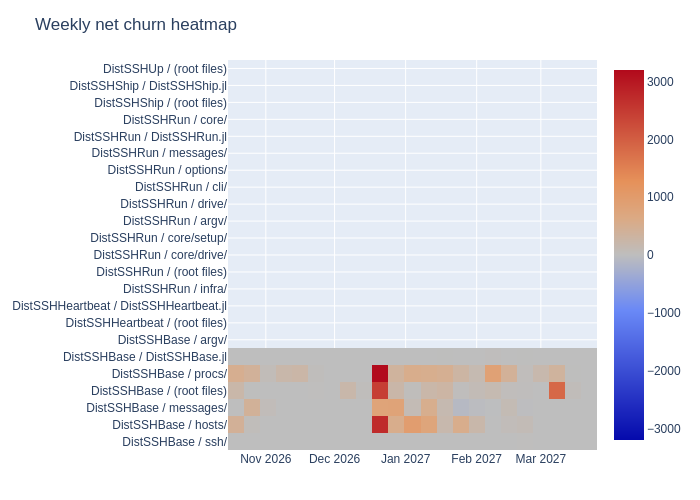
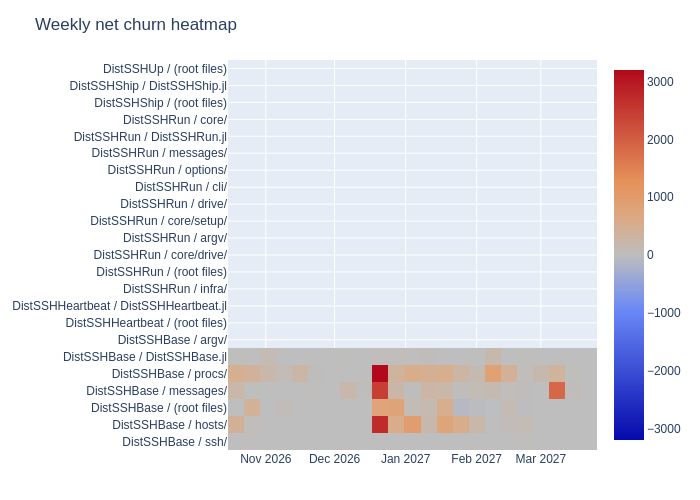
Render source churn.

Changed region(s): [[0.12, 0.75, 0.33, 0.84], [0.12, 0.42, 0.33, 0.51], [0.6, 0.78, 0.66, 0.87]]

diff --git a/churn/charts/churn-summary.html b/churn/charts/churn-summary.html
@@ -9,7 +9,7 @@
   <body style="margin:0;font-family:system-ui,sans-serif;">
   <div id="churn-summary" style="width:100%;min-height:90vh;"></div>
   <script>
-  const data = [{"type":"bar","name":"+30d","orientation":"h","y":["DistSSHBase / ssh/","DistSSHBase / hosts/","DistSSHBase / messages/","DistSSHBase / (root files)","DistSSHBase / procs/","DistSSHBase / DistSSHBase.jl","DistSSHBase / argv/","DistSSHHeartbeat / (root files)","DistSSHHeartbeat / DistSSHHeartbeat.jl","DistSSHRun / infra/","DistSSHRun / (root files)","DistSSHRun / core/drive/","DistSSHRun / core/setup/","DistSSHRun / argv/","DistSSHRun / drive/","DistSSHRun / cli/","DistSSHRun / options/","DistSSHRun / messages/","DistSSHRun / DistSSHRun.jl","DistSSHRun / core/","DistSSHShip / (root files)","DistSSHShip / DistSSHShip.jl","DistSSHUp / (root files)"],"marker":{"color":"#3b82f6"},"hovertemplate":"%{y}\u003cbr>+30d: %{x} lines\u003cextra>\u003c/extra>","x":[1519,1093,193,240,250,87,1,232,30,11665,3842,2961,2595,2098,1818,1115,1134,767,368,213,2568,88,59]},{"type":"bar","name":"−30d","orientation":"h","customdata":[344,216,67,11,0,34,1,15,2,2470,1853,1310,525,977,1027,696,114,151,217,27,340,26,61],"y":["DistSSHBase / ssh/","DistSSHBase / hosts/","DistSSHBase / messages/","DistSSHBase / (root files)","DistSSHBase / procs/","DistSSHBase / DistSSHBase.jl","DistSSHBase / argv/","DistSSHHeartbeat / (root files)","DistSSHHeartbeat / DistSSHHeartbeat.jl","DistSSHRun / infra/","DistSSHRun / (root files)","DistSSHRun / core/drive/","DistSSHRun / core/setup/","DistSSHRun / argv/","DistSSHRun / drive/","DistSSHRun / cli/","DistSSHRun / options/","DistSSHRun / messages/","DistSSHRun / DistSSHRun.jl","DistSSHRun / core/","DistSSHShip / (root files)","DistSSHShip / DistSSHShip.jl","DistSSHUp / (root files)"],"marker":{"color":"#ef4444"},"hovertemplate":"%{y}\u003cbr>−30d: %{customdata} lines\u003cextra>\u003c/extra>","x":[-344,-216,-67,-11,0,-34,-1,-15,-2,-2470,-1853,-1310,-525,-977,-1027,-696,-114,-151,-217,-27,-340,-26,-61]},{"type":"scatter","name":"net","y":["DistSSHBase / ssh/","DistSSHBase / hosts/","DistSSHBase / messages/","DistSSHBase / (root files)","DistSSHBase / procs/","DistSSHBase / DistSSHBase.jl","DistSSHBase / argv/","DistSSHHeartbeat / (root files)","DistSSHHeartbeat / DistSSHHeartbeat.jl","DistSSHRun / infra/","DistSSHRun / (root files)","DistSSHRun / core/drive/","DistSSHRun / core/setup/","DistSSHRun / argv/","DistSSHRun / drive/","DistSSHRun / cli/","DistSSHRun / options/","DistSSHRun / messages/","DistSSHRun / DistSSHRun.jl","DistSSHRun / core/","DistSSHShip / (root files)","DistSSHShip / DistSSHShip.jl","DistSSHUp / (root files)"],"marker":{"line":{"width":1,"color":"#ffffff"},"size":8,"symbol":"diamond","color":"#111827"},"mode":"markers","hovertemplate":"%{y}\u003cbr>net: %{x} lines\u003cextra>\u003c/extra>","x":[1175,877,126,229,250,53,0,217,28,9195,1989,1651,2070,1121,791,419,1020,616,151,186,2228,62,-2]}];
+  const data = [{"type":"bar","name":"+30d","orientation":"h","y":["DistSSHBase / ssh/","DistSSHBase / hosts/","DistSSHBase / (root files)","DistSSHBase / messages/","DistSSHBase / procs/","DistSSHBase / DistSSHBase.jl","DistSSHBase / argv/","DistSSHHeartbeat / (root files)","DistSSHHeartbeat / DistSSHHeartbeat.jl","DistSSHRun / infra/","DistSSHRun / (root files)","DistSSHRun / core/drive/","DistSSHRun / argv/","DistSSHRun / core/setup/","DistSSHRun / drive/","DistSSHRun / cli/","DistSSHRun / options/","DistSSHRun / messages/","DistSSHRun / DistSSHRun.jl","DistSSHRun / core/","DistSSHShip / (root files)","DistSSHShip / DistSSHShip.jl","DistSSHUp / (root files)"],"marker":{"color":"#3b82f6"},"hovertemplate":"%{y}\u003cbr>+30d: %{x} lines\u003cextra>\u003c/extra>","x":[1587,1095,349,193,250,88,1,247,30,11750,3996,2992,2132,2599,1833,1118,1314,775,383,214,2568,88,59]},{"type":"bar","name":"−30d","orientation":"h","customdata":[402,218,14,67,0,34,1,24,2,2518,1967,1329,1002,529,1043,699,132,156,231,28,340,26,61],"y":["DistSSHBase / ssh/","DistSSHBase / hosts/","DistSSHBase / (root files)","DistSSHBase / messages/","DistSSHBase / procs/","DistSSHBase / DistSSHBase.jl","DistSSHBase / argv/","DistSSHHeartbeat / (root files)","DistSSHHeartbeat / DistSSHHeartbeat.jl","DistSSHRun / infra/","DistSSHRun / (root files)","DistSSHRun / core/drive/","DistSSHRun / argv/","DistSSHRun / core/setup/","DistSSHRun / drive/","DistSSHRun / cli/","DistSSHRun / options/","DistSSHRun / messages/","DistSSHRun / DistSSHRun.jl","DistSSHRun / core/","DistSSHShip / (root files)","DistSSHShip / DistSSHShip.jl","DistSSHUp / (root files)"],"marker":{"color":"#ef4444"},"hovertemplate":"%{y}\u003cbr>−30d: %{customdata} lines\u003cextra>\u003c/extra>","x":[-402,-218,-14,-67,0,-34,-1,-24,-2,-2518,-1967,-1329,-1002,-529,-1043,-699,-132,-156,-231,-28,-340,-26,-61]},{"type":"scatter","name":"net","y":["DistSSHBase / ssh/","DistSSHBase / hosts/","DistSSHBase / (root files)","DistSSHBase / messages/","DistSSHBase / procs/","DistSSHBase / DistSSHBase.jl","DistSSHBase / argv/","DistSSHHeartbeat / (root files)","DistSSHHeartbeat / DistSSHHeartbeat.jl","DistSSHRun / infra/","DistSSHRun / (root files)","DistSSHRun / core/drive/","DistSSHRun / argv/","DistSSHRun / core/setup/","DistSSHRun / drive/","DistSSHRun / cli/","DistSSHRun / options/","DistSSHRun / messages/","DistSSHRun / DistSSHRun.jl","DistSSHRun / core/","DistSSHShip / (root files)","DistSSHShip / DistSSHShip.jl","DistSSHUp / (root files)"],"marker":{"line":{"width":1,"color":"#ffffff"},"size":8,"symbol":"diamond","color":"#111827"},"mode":"markers","hovertemplate":"%{y}\u003cbr>net: %{x} lines\u003cextra>\u003c/extra>","x":[1185,877,335,126,250,54,0,223,28,9232,2029,1663,1130,2070,790,419,1182,619,152,186,2228,62,-2]}];
   const layout = {"barmode":"overlay","height":414,"margin":{"l":220},"title":{"text":"30-day churn by area"},"xaxis":{"title":"lines"},"yaxis":{"autorange":"reversed"}};
 const config = {responsive: true, displayModeBar: true};
 Plotly.newPlot("churn-summary", data, layout, config);

diff --git a/churn/charts/churn-heatmap.html b/churn/charts/churn-heatmap.html
@@ -9,7 +9,7 @@
   <body style="margin:0;font-family:system-ui,sans-serif;">
   <div id="churn-heatmap" style="width:100%;min-height:90vh;"></div>
   <script>
-  const data = [{"type":"heatmap","colorscale":"RdBu","y":["DistSSHBase / ssh/","DistSSHBase / hosts/","DistSSHBase / messages/","DistSSHBase / (root files)","DistSSHBase / procs/","DistSSHBase / DistSSHBase.jl","DistSSHBase / argv/","DistSSHHeartbeat / (root files)","DistSSHHeartbeat / DistSSHHeartbeat.jl","DistSSHRun / infra/","DistSSHRun / (root files)","DistSSHRun / core/drive/","DistSSHRun / core/setup/","DistSSHRun / argv/","DistSSHRun / drive/","DistSSHRun / cli/","DistSSHRun / options/","DistSSHRun / messages/","DistSSHRun / DistSSHRun.jl","DistSSHRun / core/","DistSSHShip / (root files)","DistSSHShip / DistSSHShip.jl","DistSSHUp / (root files)"],"zmid":0,"z":[[0.0,434.0,-2.0,235.0,508.0,0.0],[0.0,41.0,416.0,8.0,412.0,0.0],[0.0,0.0,60.0,1.0,65.0,0.0],[0.0,0.0,0.0,5.0,224.0,0.0],[0.0,0.0,0.0,0.0,250.0,0.0],[0.0,0.0,5.0,15.0,29.0,4.0],[0.0,0.0,0.0,0.0,0.0,0.0],[0.0,0.0,0.0,217.0,0.0,0.0],[0.0,0.0,0.0,28.0,0.0,0.0],[0.0,2737.0,803.0,2457.0,3202.0,-4.0],[0.0,549.0,828.0,243.0,368.0,1.0],[0.0,966.0,100.0,31.0,550.0,4.0],[0.0,781.0,525.0,234.0,528.0,2.0],[0.0,183.0,154.0,292.0,484.0,8.0],[0.0,557.0,-92.0,27.0,296.0,3.0],[0.0,222.0,-31.0,89.0,139.0,0.0],[0.0,0.0,-9.0,140.0,869.0,20.0],[0.0,54.0,107.0,34.0,421.0,0.0],[14.0,86.0,-13.0,20.0,36.0,8.0],[0.0,0.0,0.0,0.0,185.0,1.0],[0.0,0.0,0.0,1862.0,366.0,0.0],[0.0,0.0,0.0,53.0,9.0,0.0],[0.0,2.0,-4.0,0.0,0.0,0.0]],"hovertemplate":"%{y}\u003cbr>week %{x}\u003cbr>net: %{z}\u003cextra>\u003c/extra>","x":["2026-10-19","2026-10-26","2026-11-02","2026-11-09","2026-11-16","2026-11-23"]}];
+  const data = [{"type":"heatmap","colorscale":"RdBu","y":["DistSSHBase / ssh/","DistSSHBase / hosts/","DistSSHBase / (root files)","DistSSHBase / messages/","DistSSHBase / procs/","DistSSHBase / DistSSHBase.jl","DistSSHBase / argv/","DistSSHHeartbeat / (root files)","DistSSHHeartbeat / DistSSHHeartbeat.jl","DistSSHRun / infra/","DistSSHRun / (root files)","DistSSHRun / core/drive/","DistSSHRun / argv/","DistSSHRun / core/setup/","DistSSHRun / drive/","DistSSHRun / cli/","DistSSHRun / options/","DistSSHRun / messages/","DistSSHRun / DistSSHRun.jl","DistSSHRun / core/","DistSSHShip / (root files)","DistSSHShip / DistSSHShip.jl","DistSSHUp / (root files)"],"zmid":0,"z":[[0.0,434.0,-2.0,235.0,508.0,10.0],[0.0,41.0,416.0,8.0,412.0,0.0],[0.0,0.0,0.0,5.0,224.0,106.0],[0.0,0.0,60.0,1.0,65.0,0.0],[0.0,0.0,0.0,0.0,250.0,0.0],[0.0,0.0,5.0,15.0,29.0,5.0],[0.0,0.0,0.0,0.0,0.0,0.0],[0.0,0.0,0.0,217.0,0.0,6.0],[0.0,0.0,0.0,28.0,0.0,0.0],[0.0,2737.0,803.0,2457.0,3202.0,33.0],[0.0,549.0,828.0,243.0,368.0,41.0],[0.0,966.0,100.0,31.0,550.0,16.0],[0.0,183.0,154.0,292.0,484.0,17.0],[0.0,781.0,525.0,234.0,528.0,2.0],[0.0,557.0,-92.0,27.0,296.0,2.0],[0.0,222.0,-31.0,89.0,139.0,0.0],[0.0,0.0,-9.0,140.0,869.0,182.0],[0.0,54.0,107.0,34.0,421.0,3.0],[14.0,86.0,-13.0,20.0,36.0,9.0],[0.0,0.0,0.0,0.0,185.0,1.0],[0.0,0.0,0.0,1862.0,366.0,0.0],[0.0,0.0,0.0,53.0,9.0,0.0],[0.0,2.0,-4.0,0.0,0.0,0.0]],"hovertemplate":"%{y}\u003cbr>week %{x}\u003cbr>net: %{z}\u003cextra>\u003c/extra>","x":["2026-10-19","2026-10-26","2026-11-02","2026-11-09","2026-11-16","2026-11-23"]}];
   const layout = {"height":368,"margin":{"l":220},"title":{"text":"Weekly net churn heatmap"}};
 const config = {responsive: true, displayModeBar: true};
 Plotly.newPlot("churn-heatmap", data, layout, config);

diff --git a/churn/charts/churn-weekly.html b/churn/charts/churn-weekly.html
@@ -9,7 +9,7 @@
   <body style="margin:0;font-family:system-ui,sans-serif;">
   <div id="churn-weekly" style="width:100%;min-height:90vh;"></div>
   <script>
-  const data = [{"type":"bar","name":"+","y":[19,7978,4496,9512,11997,934],"marker":{"color":"#3b82f6"},"hovertemplate":"week %{x}\u003cbr>added: %{y}\u003cextra>\u003c/extra>","x":["2026-10-19","2026-10-26","2026-11-02","2026-11-09","2026-11-16","2026-11-23"]},{"type":"bar","name":"−","customdata":[5,1366,1649,3521,3056,887],"y":[-5,-1366,-1649,-3521,-3056,-887],"marker":{"color":"#ef4444"},"hovertemplate":"week %{x}\u003cbr>removed: %{customdata}\u003cextra>\u003c/extra>","x":["2026-10-19","2026-10-26","2026-11-02","2026-11-09","2026-11-16","2026-11-23"]},{"line":{"color":"#111827"},"type":"scatter","name":"net","y":[14,6612,2847,5991,8941,47],"mode":"markers+lines","hovertemplate":"week %{x}\u003cbr>net: %{y}\u003cextra>\u003c/extra>","x":["2026-10-19","2026-10-26","2026-11-02","2026-11-09","2026-11-16","2026-11-23"]}];
+  const data = [{"type":"bar","name":"+","y":[19,7978,4496,9512,11997,1659],"marker":{"color":"#3b82f6"},"hovertemplate":"week %{x}\u003cbr>added: %{y}\u003cextra>\u003c/extra>","x":["2026-10-19","2026-10-26","2026-11-02","2026-11-09","2026-11-16","2026-11-23"]},{"type":"bar","name":"−","customdata":[5,1366,1649,3521,3056,1226],"y":[-5,-1366,-1649,-3521,-3056,-1226],"marker":{"color":"#ef4444"},"hovertemplate":"week %{x}\u003cbr>removed: %{customdata}\u003cextra>\u003c/extra>","x":["2026-10-19","2026-10-26","2026-11-02","2026-11-09","2026-11-16","2026-11-23"]},{"line":{"color":"#111827"},"type":"scatter","name":"net","y":[14,6612,2847,5991,8941,433],"mode":"markers+lines","hovertemplate":"week %{x}\u003cbr>net: %{y}\u003cextra>\u003c/extra>","x":["2026-10-19","2026-10-26","2026-11-02","2026-11-09","2026-11-16","2026-11-23"]}];
   const layout = {"barmode":"relative","height":420,"title":{"text":"Weekly churn (all areas)"},"xaxis":{"title":"week start (JST)"},"yaxis":{"title":"lines"}};
 const config = {responsive: true, displayModeBar: true};
 Plotly.newPlot("churn-weekly", data, layout, config);

diff --git a/churn/report.md b/churn/report.md
@@ -1,7 +1,7 @@
 ## Source churn
 
 Lines are non-blank `*.jl` under `src/` and `lib/*/src/`, grouped by package and area.
-Columns use git history through `45f4edf` as of 2026-11-23 (JST).
+Columns use git history through `c6a030d` as of 2026-11-23 (JST).
 Areas list only directories that hold at least one `*.jl` directly and show any 7d or 30d added/deleted lines.
 
 **(root files)** lists `.jl` files sitting directly in a package `src/` directory, not in a subfolder.
@@ -17,20 +17,20 @@ Interactive charts (hover for values): [summary](charts/churn-summary.html) · [
 ### DistSSHBase
 | area | files | LOC | +7d | −7d | net7 | +30d | −30d | net30 | %≥30d old | last touch |
 | --- | ---: | ---: | ---: | ---: | ---: | ---: | ---: | ---: | ---: | --- |
-| ssh/ | 9 | 2259 | 650 | 142 | 508 | 1519 | 344 | 1175 | 44.4 | 2026-11-23 |
-| hosts/ | 6 | 1091 | 559 | 147 | 412 | 1093 | 216 | 877 | 18.9 | 2026-11-21 |
+| ssh/ | 9 | 2269 | 718 | 200 | 518 | 1587 | 402 | 1185 | 43.3 | 2026-11-23 |
+| hosts/ | 6 | 1091 | 561 | 149 | 412 | 1095 | 218 | 877 | 18.9 | 2026-11-23 |
+| (root files) | 6 | 383 | 336 | 6 | 330 | 349 | 14 | 335 | 18.4 | 2026-11-23 |
 | messages/ | 4 | 403 | 80 | 15 | 65 | 193 | 67 | 126 | 61.7 | 2026-11-22 |
-| (root files) | 5 | 288 | 227 | 3 | 224 | 240 | 11 | 229 | 25.5 | 2026-11-21 |
 | procs/ | 2 | 233 | 250 | 0 | 250 | 250 | 0 | 250 | 0.0 | 2026-11-21 |
-| DistSSHBase.jl | 1 | 86 | 39 | 6 | 33 | 87 | 34 | 53 | 24.7 | 2026-11-23 |
+| DistSSHBase.jl | 1 | 87 | 40 | 6 | 34 | 88 | 34 | 54 | 24.5 | 2026-11-23 |
 | argv/ | 1 | 31 | 0 | 0 | 0 | 1 | 1 | 0 | 97.4 | 2026-11-08 |
 
-*(root files)*: component_id.jl, component_src.jl, namespace.jl, record_writer.jl, tool_require.jl.
+*(root files)*: component_id.jl, component_src.jl, env.jl, namespace.jl, record_writer.jl, tool_require.jl.
 
 ### DistSSHHeartbeat
 | area | files | LOC | +7d | −7d | net7 | +30d | −30d | net30 | %≥30d old | last touch |
 | --- | ---: | ---: | ---: | ---: | ---: | ---: | ---: | ---: | ---: | --- |
-| (root files) | 5 | 198 | 0 | 0 | 0 | 232 | 15 | 217 | 0.0 | 2026-11-13 |
+| (root files) | 5 | 204 | 15 | 9 | 6 | 247 | 24 | 223 | 0.0 | 2026-11-23 |
 | DistSSHHeartbeat.jl | 1 | 22 | 0 | 0 | 0 | 30 | 2 | 28 | 0.0 | 2026-11-13 |
 
 *(root files)*: config.jl, deliver.jl, monitor.jl, worker.jl, worker_source.jl.
@@ -38,17 +38,17 @@ Interactive charts (hover for values): [summary](charts/churn-summary.html) · [
 ### DistSSHRun
 | area | files | LOC | +7d | −7d | net7 | +30d | −30d | net30 | %≥30d old | last touch |
 | --- | ---: | ---: | ---: | ---: | ---: | ---: | ---: | ---: | ---: | --- |
-| infra/ | 25 | 9935 | 3981 | 783 | 3198 | 11665 | 2470 | 9195 | 11.7 | 2026-11-23 |
-| (root files) | 11 | 5502 | 1228 | 859 | 369 | 3842 | 1853 | 1989 | 50.3 | 2026-11-23 |
-| core/drive/ | 12 | 3445 | 956 | 402 | 554 | 2961 | 1310 | 1651 | 40.3 | 2026-11-23 |
-| core/setup/ | 10 | 4170 | 646 | 116 | 530 | 2595 | 525 | 2070 | 46.2 | 2026-11-23 |
-| argv/ | 8 | 2515 | 922 | 430 | 492 | 2098 | 977 | 1121 | 40.5 | 2026-11-23 |
-| drive/ | 7 | 2155 | 762 | 463 | 299 | 1818 | 1027 | 791 | 44.8 | 2026-11-23 |
-| cli/ | 15 | 1157 | 435 | 296 | 139 | 1115 | 696 | 419 | 43.1 | 2026-11-23 |
-| options/ | 8 | 1049 | 973 | 84 | 889 | 1134 | 114 | 1020 | 7.4 | 2026-11-23 |
-| messages/ | 3 | 2763 | 457 | 36 | 421 | 767 | 151 | 616 | 77.5 | 2026-11-22 |
-| DistSSHRun.jl | 1 | 541 | 114 | 70 | 44 | 368 | 217 | 151 | 54.3 | 2026-11-23 |
-| core/ | 1 | 172 | 213 | 27 | 186 | 213 | 27 | 186 | 0.0 | 2026-11-23 |
+| infra/ | 25 | 9971 | 4066 | 831 | 3235 | 11750 | 2518 | 9232 | 11.5 | 2026-11-23 |
+| (root files) | 11 | 5541 | 1382 | 973 | 409 | 3996 | 1967 | 2029 | 49.4 | 2026-11-23 |
+| core/drive/ | 12 | 3457 | 987 | 421 | 566 | 2992 | 1329 | 1663 | 39.9 | 2026-11-23 |
+| argv/ | 8 | 2524 | 956 | 455 | 501 | 2132 | 1002 | 1130 | 40.1 | 2026-11-23 |
+| core/setup/ | 10 | 4170 | 650 | 120 | 530 | 2599 | 529 | 2070 | 46.2 | 2026-11-23 |
+| drive/ | 7 | 2154 | 777 | 479 | 298 | 1833 | 1043 | 790 | 44.5 | 2026-11-23 |
+| cli/ | 15 | 1157 | 438 | 299 | 139 | 1118 | 699 | 419 | 43.0 | 2026-11-23 |
+| options/ | 9 | 1206 | 1153 | 102 | 1051 | 1314 | 132 | 1182 | 6.3 | 2026-11-23 |
+| messages/ | 3 | 2766 | 465 | 41 | 424 | 775 | 156 | 619 | 77.3 | 2026-11-23 |
+| DistSSHRun.jl | 1 | 542 | 129 | 84 | 45 | 383 | 231 | 152 | 53.6 | 2026-11-23 |
+| core/ | 1 | 172 | 214 | 28 | 186 | 214 | 28 | 186 | 0.0 | 2026-11-23 |
 
 *(root files)*: DistSSHRun/drive.jl, DistSSHRun/execute.jl, DistSSHRun/execute_envelope.jl, DistSSHRun/go.jl, DistSSHRun/heartbeat_module.jl, DistSSHRun/hostinfo.jl, DistSSHRun/pool.jl, DistSSHRun/provenance.jl, DistSSHRun/setup.jl, DistSSHRun/ship_module.jl, DistSSHRun/up_module.jl.
 
